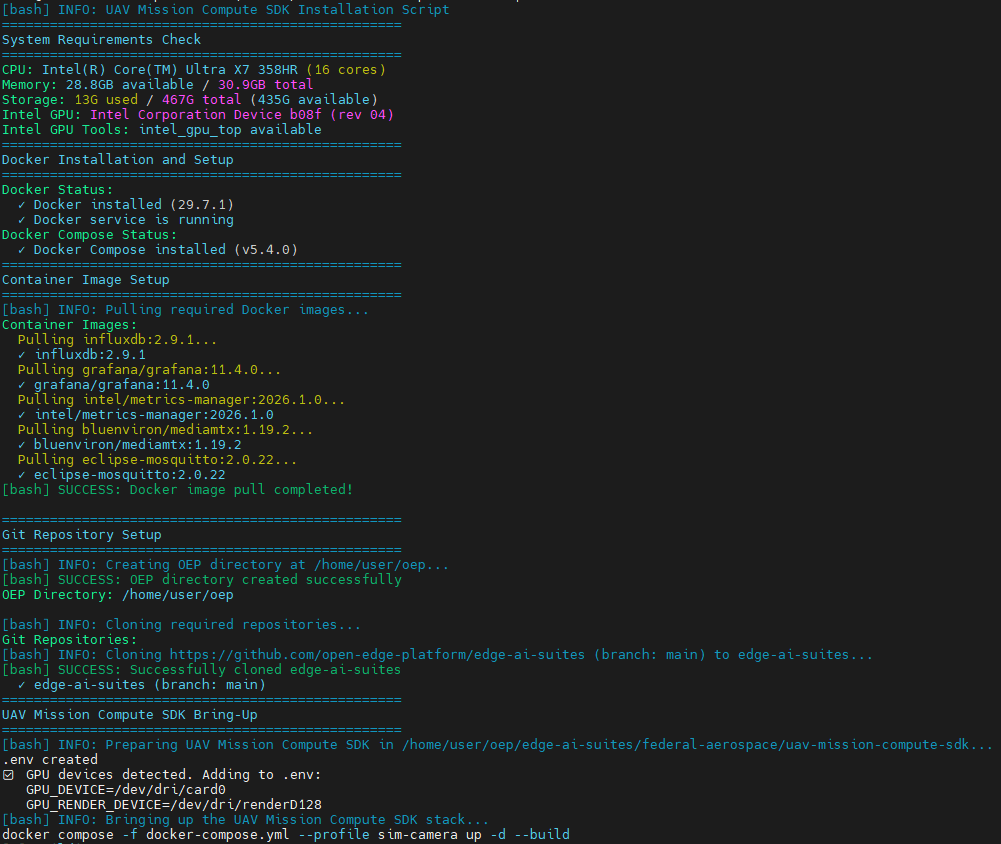
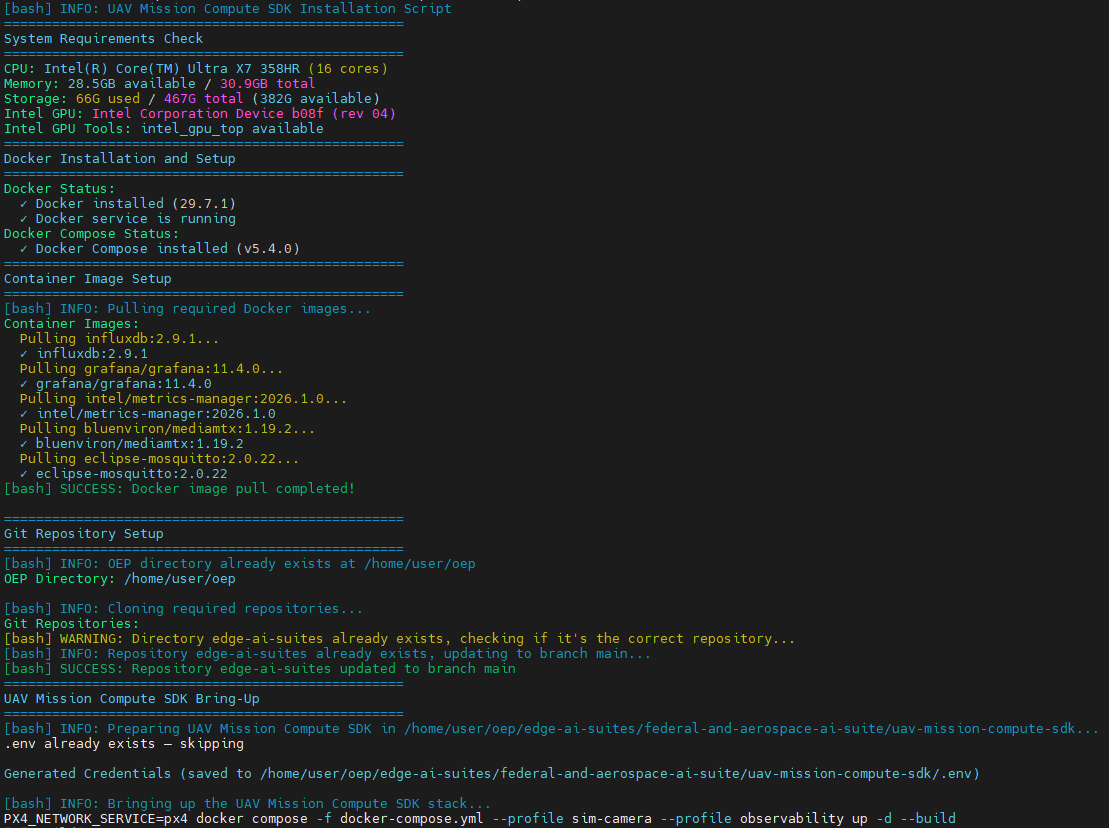
UAV SDK : Update paths in SDK doc/script (#3869) (#3891)
- Update paths in SDK doc/script
- Add credential generation before deploy
- Fix /state endpoint

Changed region(s): [[0.0, 0.0, 0.991, 1.0], [0.6194, 0.9662, 0.8052, 0.9964], [0.8362, 0.9662, 0.8671, 0.9964]]

diff --git a/tools/oep-sdk-manager/docs/user-guide/uav-mission-compute-sdk/get-started.md b/tools/oep-sdk-manager/docs/user-guide/uav-mission-compute-sdk/get-started.md
@@ -131,7 +131,7 @@ The UAV Mission Compute SDK integrates multiple technologies:
 After installation completes:
 
 1. Navigate to `$HOME/oep/edge-ai-suites/federal-and-aerospace-ai-suite/uav-mission-compute-sdk/` to explore the SDK
-2. Review [GETTING_STARTED.md](https://github.com/open-edge-platform/edge-ai-suites/blob/main/federal-and-aerospace-ai-suite/uav-mission-compute-sdk/GETTING_STARTED.md) for USB camera setup and advanced configuration
+2. Review [get-started.md](https://github.com/open-edge-platform/edge-ai-suites/blob/main/federal-and-aerospace-ai-suite/uav-mission-compute-sdk/docs/user-guide/get-started.md) for USB camera setup and advanced configuration
 3. Access Grafana dashboards at **http://localhost:3000** (admin/admin)
 4. Explore the REST API at **http://localhost:8080** for flight control commands
 
